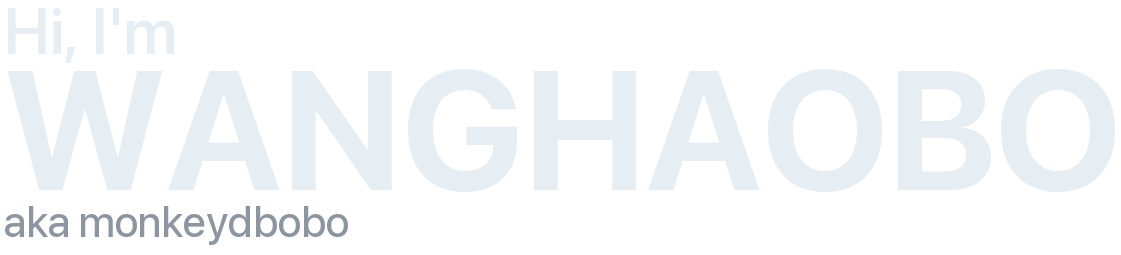
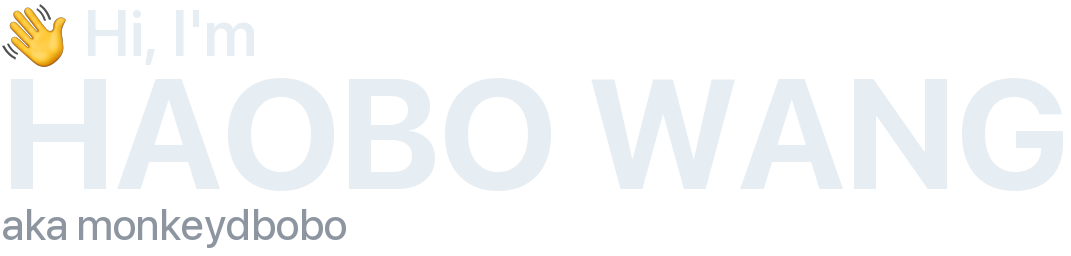
Rename the header to HAOBO WANG.
The greeting should read as a name, with a wave beside Hi.

diff --git a/README.md b/README.md
@@ -2,7 +2,7 @@
 
 <picture>
   <source media="(prefers-color-scheme: dark)" srcset="assets/hello-dark.png">
-  <img alt="Hi, I'm WANGHAOBO aka monkeydbobo" src="assets/hello-light.png" width="560">
+  <img alt="Hi, I'm HAOBO WANG aka monkeydbobo" src="assets/hello-light.png" width="560">
 </picture>
 
 I work at [StreamLake](https://www.streamlake.ai/), Kuaishou. I come from video systems and now work full-stack. Players, delivery, and client infrastructure are the foundation. AI video products are where that foundation ships.
